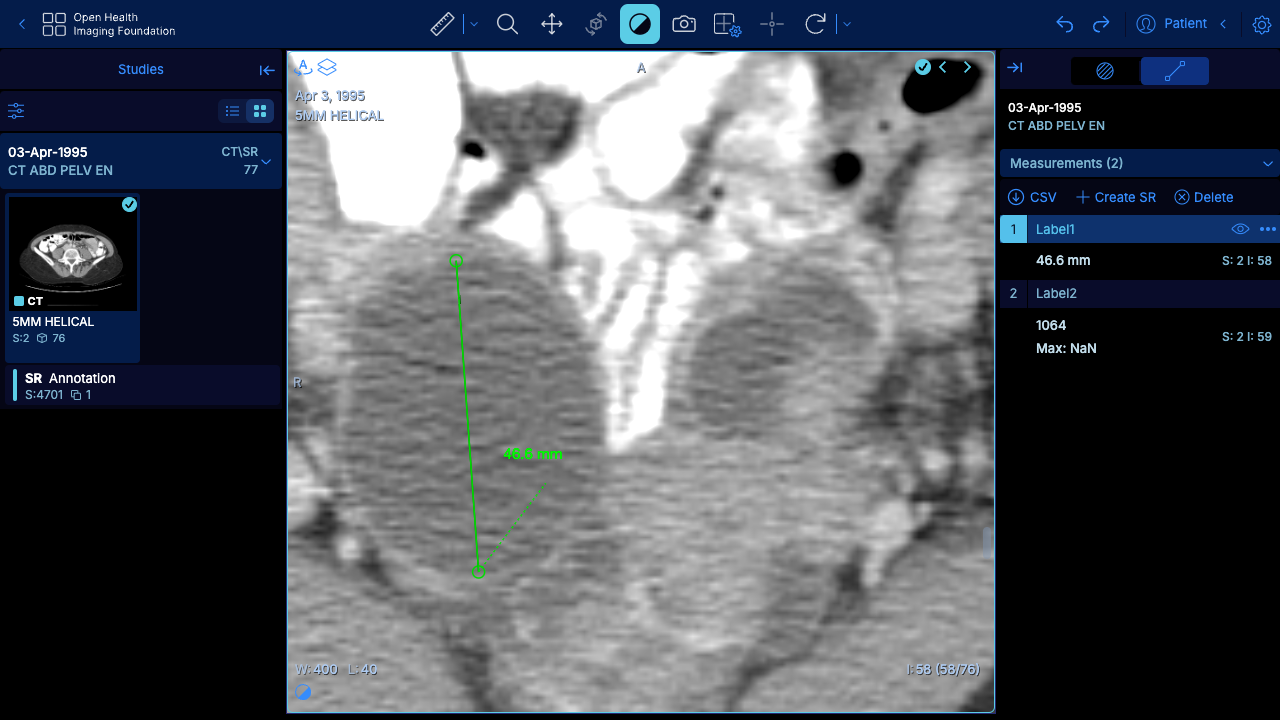
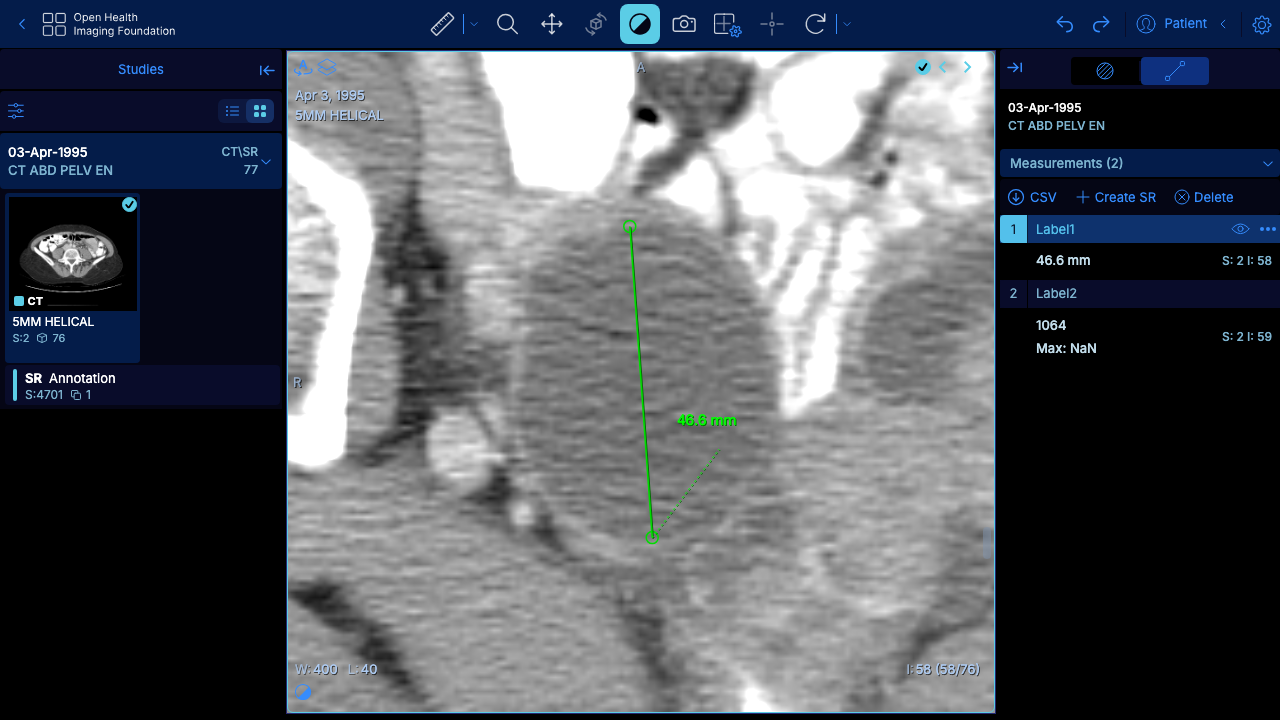
feat:  Jump to measurement moves the camera if it is not in the viewport (#5023)

diff --git a/extensions/cornerstone/src/utils/getCenterExtent.ts b/extensions/cornerstone/src/utils/getCenterExtent.ts
@@ -1,0 +1,46 @@
+/**
+ * Calculates the center point and bounding box extent of a measurement based on its points.
+ * @param {Object} measurement - The measurement object containing points
+ * @param {Array<Array<number>>} measurement.points - Array of 3D points [x, y, z]
+ * @returns {Object} Object containing center and extent
+ * @returns {Array<number>} returns.center - The center point [x, y, z]
+ * @returns {Object} returns.extent - The bounding box extent with min and max points
+ */
+export const getCenterExtent = (measurement: { points?: number[][] }) => {
+  const { points } = measurement;
+
+  if (!points || !Array.isArray(points) || points.length === 0) {
+    // Return default values if no points are available
+    const defaultCenter: [number, number, number] = [0, 0, 0];
+    const defaultExtent = {
+      min: [0, 0, 0] as [number, number, number],
+      max: [0, 0, 0] as [number, number, number],
+    };
+    return { center: defaultCenter, extent: defaultExtent };
+  }
+
+  // Initialize min and max with the first point
+  const min: [number, number, number] = [...points[0]] as [number, number, number];
+  const max: [number, number, number] = [...points[0]] as [number, number, number];
+
+  // Find the bounding box by iterating through all points
+  for (let i = 1; i < points.length; i++) {
+    const point = points[i];
+    for (let j = 0; j < 3; j++) {
+      min[j] = Math.min(min[j], point[j]);
+      max[j] = Math.max(max[j], point[j]);
+    }
+  }
+
+  // Calculate the center point
+  const center: [number, number, number] = [
+    (min[0] + max[0]) / 2,
+    (min[1] + max[1]) / 2,
+    (min[2] + max[2]) / 2,
+  ];
+
+  return {
+    center,
+    extent: { min, max },
+  };
+};

diff --git a/extensions/cornerstone/src/utils/isMeasurementWithinViewport.ts b/extensions/cornerstone/src/utils/isMeasurementWithinViewport.ts
@@ -1,0 +1,33 @@
+import { getCenterExtent } from './getCenterExtent';
+
+/**
+ * Determines if a measurement is within the current viewport extent.
+ * Uses the measurement's bounding box extent to efficiently check if the entire
+ * measurement fits within the viewport's visible area.
+ *
+ * @param {Object} viewport - The viewport object containing camera information
+ * @param {Object} measurement - The measurement object containing points to check
+ * @returns {boolean} True if the measurement extent is within the viewport, false otherwise
+ */
+export const isMeasurementWithinViewport = (viewport, measurement) => {
+  const camera = viewport.getCamera();
+  const { focalPoint, parallelScale } = camera;
+
+  // Get the measurement's bounding box extent
+  const { extent } = getCenterExtent(measurement);
+  const { min, max } = extent;
+
+  // Check if the entire bounding box fits within the viewport extent
+  // We need to check both the min and max corners of the bounding box
+  for (let i = 0; i < 3; i++) {
+    const minDistance = Math.abs(min[i] - focalPoint[i]);
+    const maxDistance = Math.abs(max[i] - focalPoint[i]);
+
+    // If either the min or max point is outside the viewport extent, return false
+    if (minDistance > parallelScale || maxDistance > parallelScale) {
+      return false;
+    }
+  }
+
+  return true; // The entire measurement extent is within the viewport
+};

diff --git a/extensions/cornerstone/src/commandsModule.ts b/extensions/cornerstone/src/commandsModule.ts
@@ -40,6 +40,8 @@ import { updateSegmentBidirectionalStats } from './utils/updateSegmentationStats
 import { generateSegmentationCSVReport } from './utils/generateSegmentationCSVReport';
 import { getUpdatedViewportsForSegmentation } from './utils/hydrationUtils';
 import { SegmentationRepresentations } from '@cornerstonejs/tools/enums';
+import { isMeasurementWithinViewport } from './utils/isMeasurementWithinViewport';
+import { getCenterExtent } from './utils/getCenterExtent';
 
 const { DefaultHistoryMemo } = csUtils.HistoryMemo;
 const toggleSyncFunctions = {
@@ -161,6 +163,27 @@ function commandsModule({
         const viewport = cornerstoneViewportService.getCornerstoneViewport(viewportId);
         viewport.setViewReference(metadata);
         viewport.render();
+
+        /**
+         * If the measurement is not visible inside the current viewport,
+         * we need to move the camera to the measurement.
+         */
+        if (!isMeasurementWithinViewport(viewport, measurement)) {
+          const camera = viewport.getCamera();
+          const { focalPoint: cameraFocalPoint, position: cameraPosition } = camera;
+          const { center, extent } = getCenterExtent(measurement);
+          const position = vec3.sub(vec3.create(), cameraPosition, cameraFocalPoint);
+          vec3.add(position, position, center);
+          viewport.setCamera({ focalPoint: center, position: position as any });
+          /** Zoom out if the measurement is too large */
+          const measurementSize = vec3.dist(extent.min, extent.max);
+          if (measurementSize > camera.parallelScale) {
+            const scaleFactor = measurementSize / camera.parallelScale;
+            viewport.setZoom(viewport.getZoom() / scaleFactor);
+          }
+          viewport.render();
+        }
+
         return;
       }
 

diff --git a/extensions/cornerstone/src/utils/index.ts b/extensions/cornerstone/src/utils/index.ts
@@ -9,6 +9,7 @@ import promptHydrationDialog, {
   HydrationCallback,
   HydrationSRResult,
 } from './promptHydrationDialog';
+import { getCenterExtent } from './getCenterExtent';
 
 const utils = {
   handleSegmentChange,
@@ -16,6 +17,7 @@ const utils = {
   setupSegmentationDataModifiedHandler,
   setupSegmentationModifiedHandler,
   promptHydrationDialog,
+  getCenterExtent,
 };
 
 export type { HydrationDialogProps, HydrationCallback, HydrationSRResult };